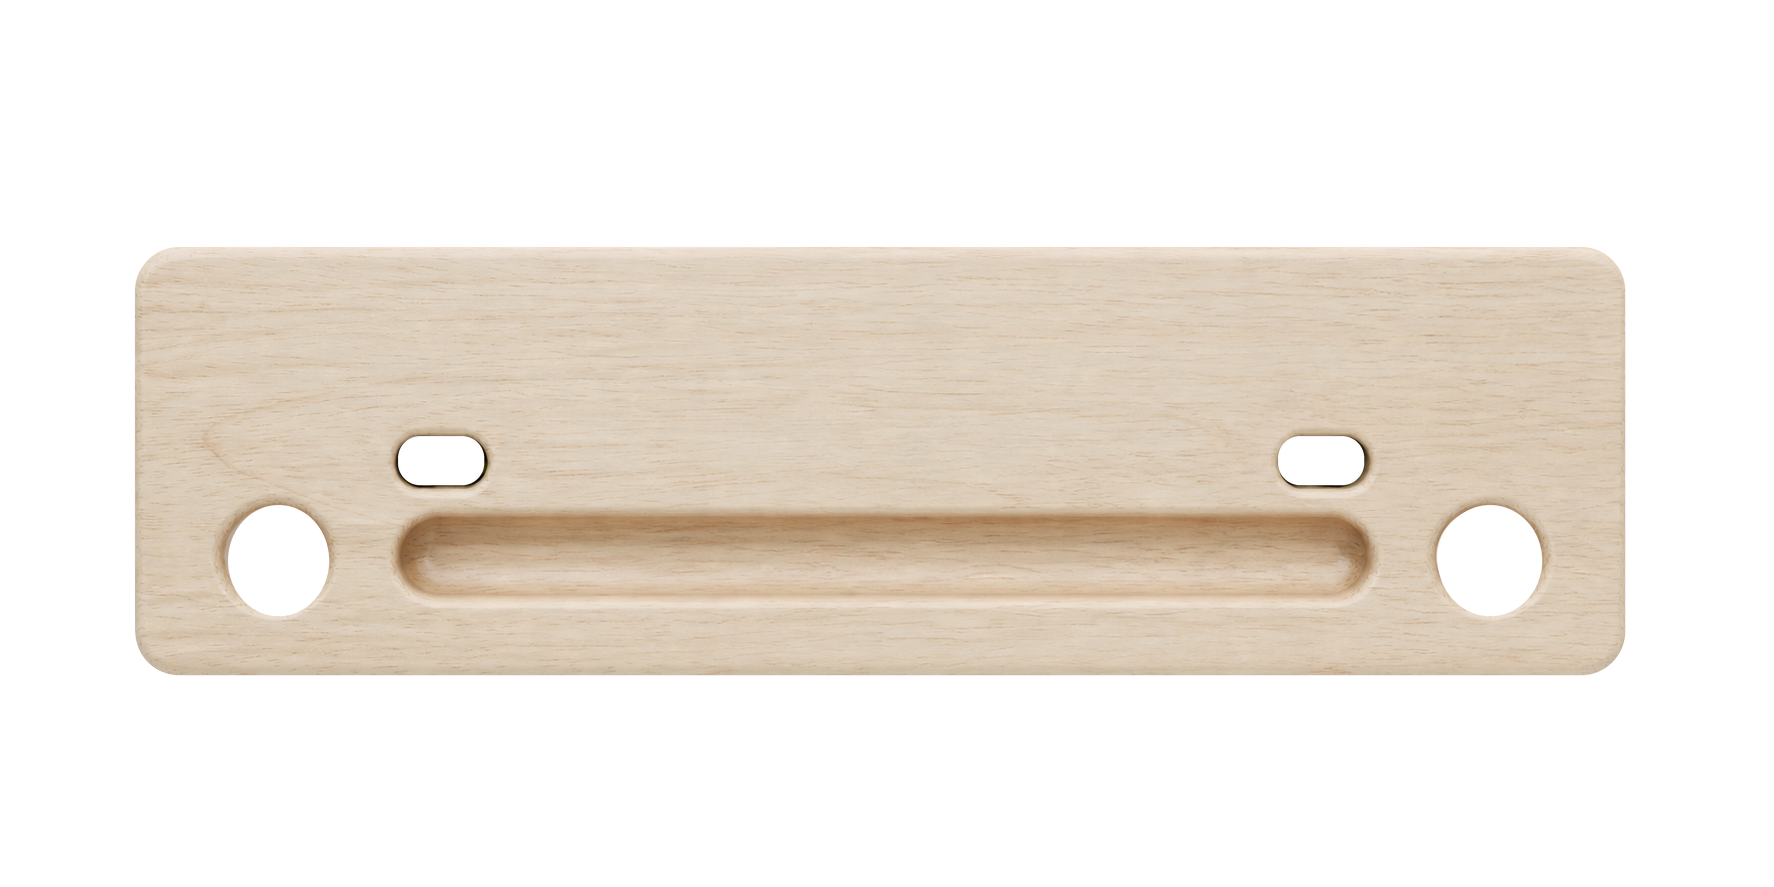
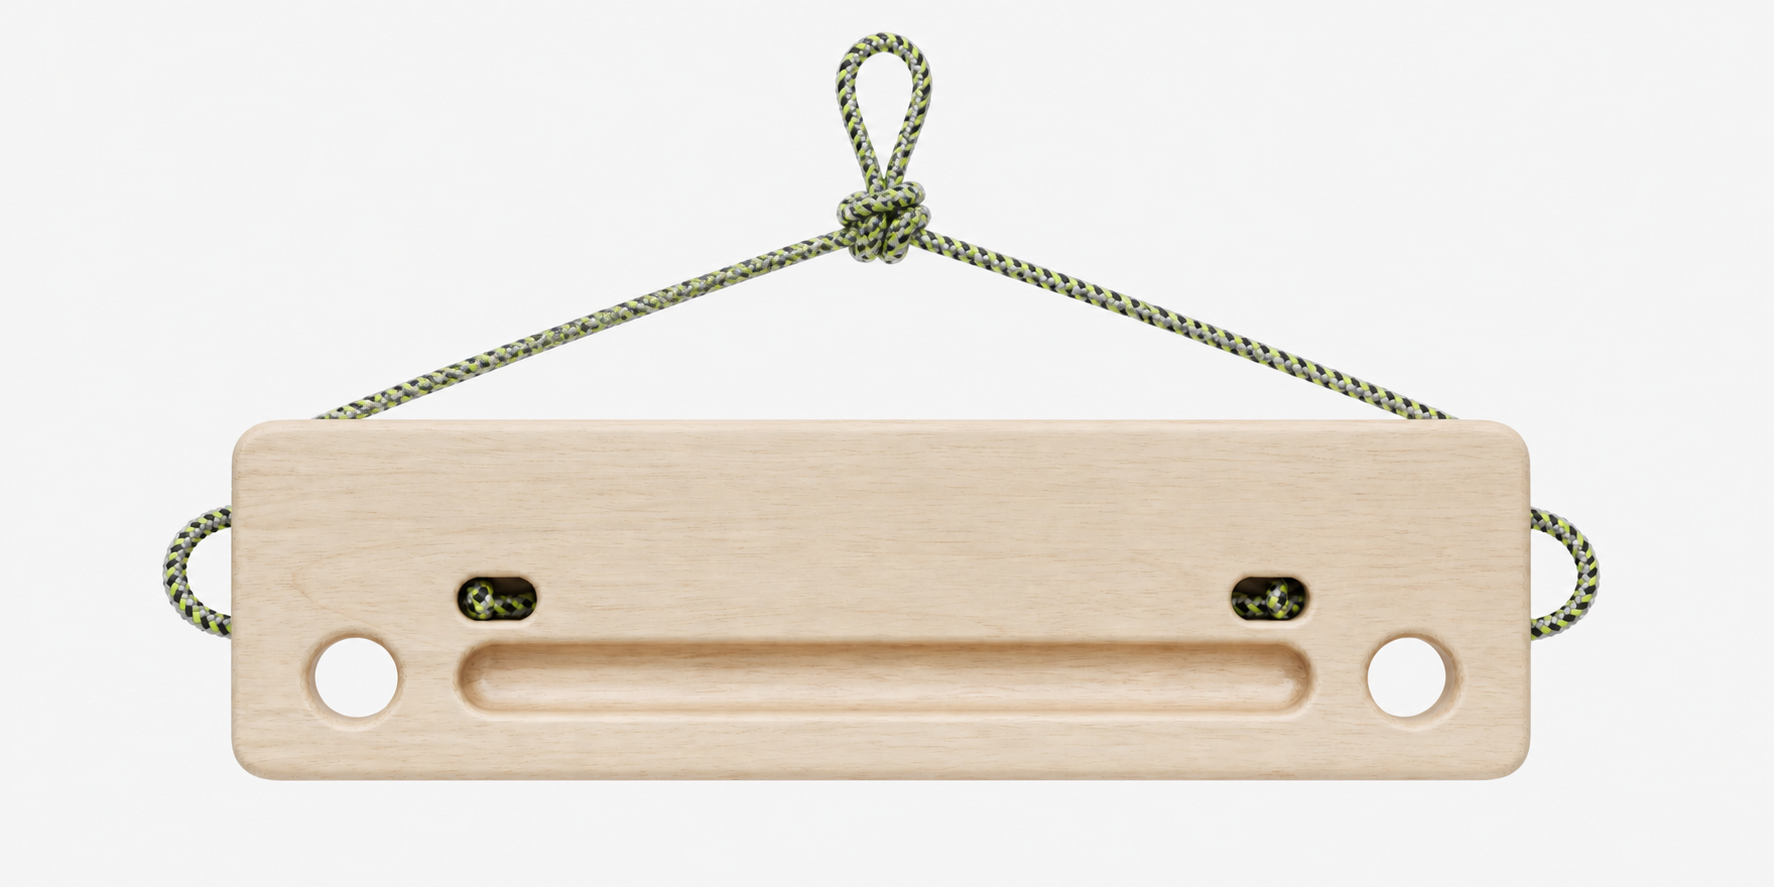
fix: restore TravelBoard reverse suspension cord

diff --git a/docs/source-audits/2026-08-20-complete-hangboard-catalog.md b/docs/source-audits/2026-08-20-complete-hangboard-catalog.md
@@ -1103,7 +1103,18 @@ Reverse prompt (verbatim):
 Accepted assets: `primary.png` is 1536 × 1024 (ratio 1.5, SHA-256
[1 lines of base64/hex data omitted]
 `reverse.png` is 1774 × 887 (ratio 2.0, SHA-256
[2 lines of base64/hex data omitted]
+
+On 2026-08-31, the reverse presentation was repaired after blue-field review
+showed that an alpha-only backdrop mutation had hidden the source-proved side
+loops and suspension cord behind both routing holes. The built-in image edit
+used the existing reverse presentation as the geometry/composition target and
+YY Vertical's official current-product gallery views 3 and 4 as the physical
+evidence inputs. The accepted untouched output restores a complete, uncropped
+adjustable cord assembly, both side loops, and cord behind both routing holes
+on the original 1774 × 887 opaque canvas. The saved reverse hold path remains
+unchanged; its enclosing frame was deliberately remapped to the visible recess
+after the repaired composition moved the product lower in the fixed canvas.
 
 ### Direct geometry mapping
 
@@ -1113,7 +1124,7 @@ Accepted assets: `primary.png` is 1536 × 1024 (ratio 1.5, SHA-256
 | 25 mm edge | `front-25-15`: `x .076, y .390, w .848, h .095` | Long upper routed contact only. |
 | 15 mm edge | `front-25-15`: `x .190, y .573, w .600, h .075` | Shorter centered lower routed contact only. |
 | Mono openings | Left `x .083, y .568, w .064, h .094`; exact right mirror | Two physical through openings, each independently selectable. |
-| 10 mm edge | `reverse-10`: `x .222, y .506, w .556, h .102` | The only distinct reverse-face grip supported by the official inventory. |
+| 10 mm edge | `reverse-10`: `x .231, y .719, w .538, h .132` | The only distinct reverse-face grip supported by the official inventory; deliberately remapped to its visible recess after the complete cord repair moved the product lower within the unchanged canvas. |
 
 Every path was deliberately authored. Regular openings use operator-selected
 oval or rounded-rectangle constraints; the broad tray uses an
